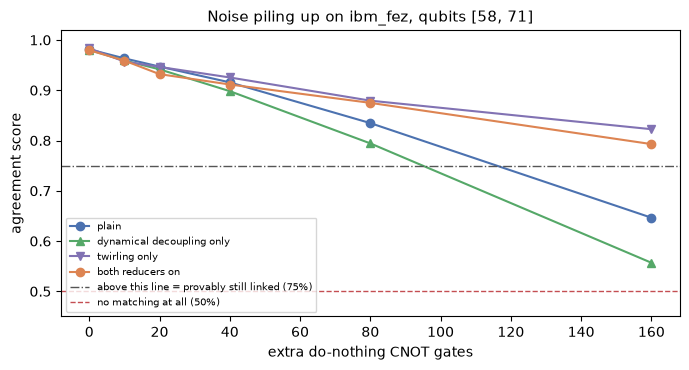
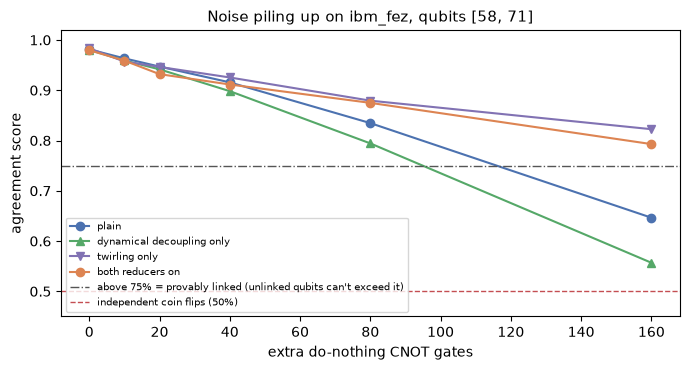
Lesson 6: 75%/50% wording, strict readout check, kingston twirling claim (ChatGPT review)

Changed region(s): [[0.1219, 0.7432, 0.6096, 0.8324]]

diff --git a/lessons/06_noise/noise.py b/lessons/06_noise/noise.py
@@ -172,8 +172,9 @@ def save_chart(series: dict, title: str, path: Path) -> None:
         color, ls, marker = styles.get(name, ("#55a868", "-", "o"))
         ax.plot(x, ys, color=color, linestyle=ls, marker=marker, label=name)
     ax.axhline(0.75, color="#555555", linewidth=1, linestyle="-.",
-               label="above this line = provably still linked (75%)")
-    ax.axhline(0.5, color="#c44e52", linewidth=1, linestyle="--", label="no matching at all (50%)")
+               label="above 75% = provably linked (unlinked qubits can't exceed it)")
+    ax.axhline(0.5, color="#c44e52", linewidth=1, linestyle="--",
+               label="independent coin flips (50%)")
     ax.set_xlabel("extra do-nothing CNOT gates")
     ax.set_ylabel("agreement score")
     ax.set_ylim(0.45, 1.02)
@@ -216,7 +217,7 @@ def simulate() -> int:
 
     ok = (all(math.isclose(s, 1.0) for s in ideal)                       # the pairs really do nothing
           and r["raw"][-1] < r["raw"][0] - 0.05                # noise grows with more gates
-          and r["fixed"][0] >= r["raw"][0])                    # undoing misreads helps
+          and r["fixed"][0] > r["raw"][0])                     # undoing misreads raises it
     print("  need: perfect simulator 100% at every depth; noisy score drops by more than "
           "5 points from 0 to 160 CNOTs; undoing misreads raises the starting score")
     print("CHECK PASSED" if ok else "CHECK FAILED")
@@ -298,7 +299,7 @@ def fetch_jobs() -> int:
     p = results["plain"]
     ok = (p["raw"][0] >= 0.85                      # the magic coins work at the start
           and p["raw"][-1] < p["raw"][0] - 0.05    # and noise visibly grows with more gates
-          and p["fixed"][0] >= p["raw"][0])        # undoing misreads helps
+          and p["fixed"][0] > p["raw"][0])         # undoing misreads raises it
     print("  need: plain score >= 85% with no extra gates, dropping by more than 5 points by "
           "160 extra gates, and undoing misreads raises the starting score")
     print("CHECK PASSED" if ok else "CHECK FAILED")

diff --git a/lessons/06_noise/README.md b/lessons/06_noise/README.md
@@ -19,10 +19,11 @@ We measure an **agreement score**: the average of how often the coins match stra
 sideways (lesson 1).
 
 - **100%** is a perfect link.
-- **Above 75%**, the score proves the coins are still quantum-linked. No pair of pre-agreed
+- **Above 75%**, the score proves the coins are still quantum-linked: 75% is the most that
+  unlinked qubits can reach on these two looks. No pair of pre-agreed
   ordinary coins can match that often both ways.
 - **Below 75%**, pre-agreed coins could fake it, so the score no longer proves a link.
-- **50%** means no matching at all, which is what two unrelated coin flips give.
+- **50%** is what two unrelated, independent coin flips give: they match half the time by chance.
 
 **Three ways to fight noise:**
 
@@ -151,10 +152,14 @@ finding the prize among 8 boxes (perfect machine: 12.5%, 78.1%, 94.5%, 33.0% for
 | Plain | 11.7% | 52.8% | 57.1% | 21.0% | 81.3% |
 | Twirled | 13.7% | 60.5% | 65.3% | 25.8% | 88.2% |
 
-Twirling added about 8 points, but part of that is the reading alone. These qubits misread a
-lot (the control was only 81% correct), and superconducting qubits mostly misread 1 as 0.
-Measurement twirling averages that habit out across 0s and 1s, which happens to help the prize
-`101` (two 1s). Adjusting for the readout control, gate twirling itself added only about 4 points.
+With both kinds of twirling on (gates and the final reading), the search did about 8 points
+better. This run can't say how much of that came from each kind: both changed together. The
+readout control also improved (81% to 88%). These qubits misread a lot, and superconducting
+qubits mostly misread 1 as 0. Measurement twirling averages that habit out across 0s and 1s,
+which happens to help the prize `101` (two 1s), so reading probably accounts for part of the
+gain. But one control can't measure it exactly, partly because the compiler may have put the
+control's bits on the qubits in a different order than the search's. Run 2 below splits the
+two kinds properly.
 
 **Run 2: IBM's ibm_fez, qubits 142–144** (four jobs, to split the two kinds of twirling):
 
@@ -172,8 +177,10 @@ within the ±1.2 points that 4000 shots wobble by from chance alone.
 
 What we take from the two runs:
 
-- **Twirling's gain on the search came mostly from fixing bad readout** on kingston's qubits.
-  On fez's qubits, which read correctly 98% of the time, there was nothing for it to fix.
+- **Twirling helped on kingston's poorly reading qubits and made no difference on fez's good
+  ones.** Kingston's readout control improved with twirling too, so better reading was probably
+  part of the gain, but these runs can't say exactly how much. On fez's qubits, which read
+  correctly 98% of the time, there was nothing for it to fix.
 - **Gate twirling helps most when errors can line up.** The cancelling-CNOT test is the worst
   case: 160 copies of the same gate, so a systematic error reinforces itself 160 times. The
   search uses about 40 two-qubit gates mixed with many different single-qubit gates, so
